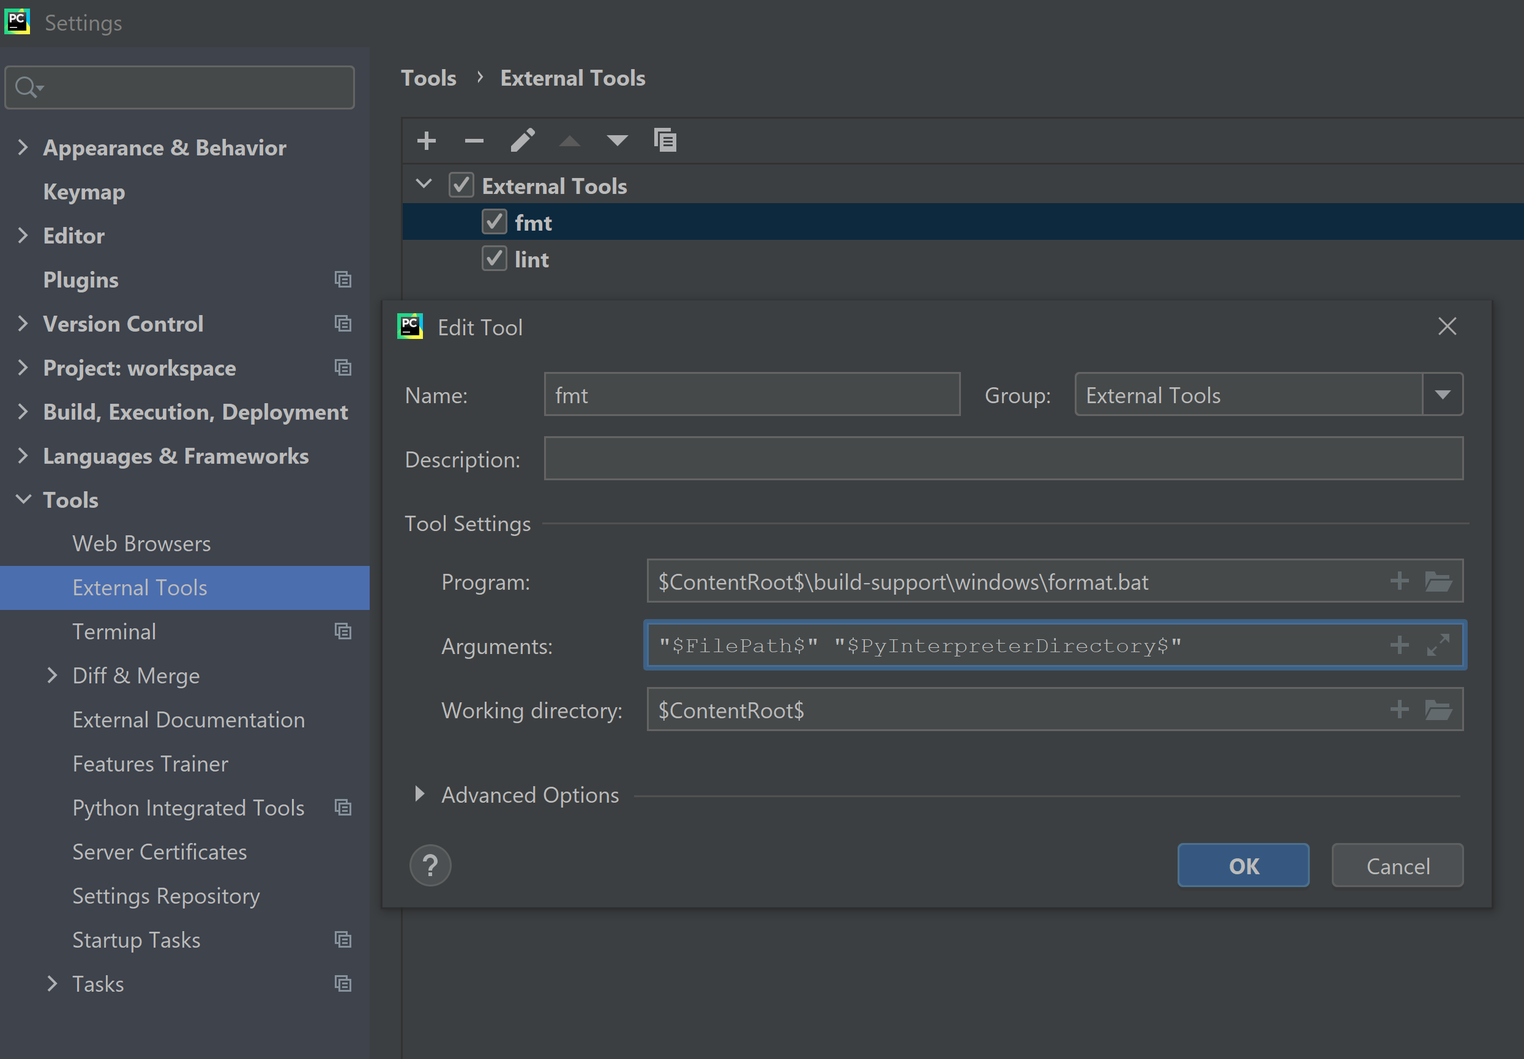
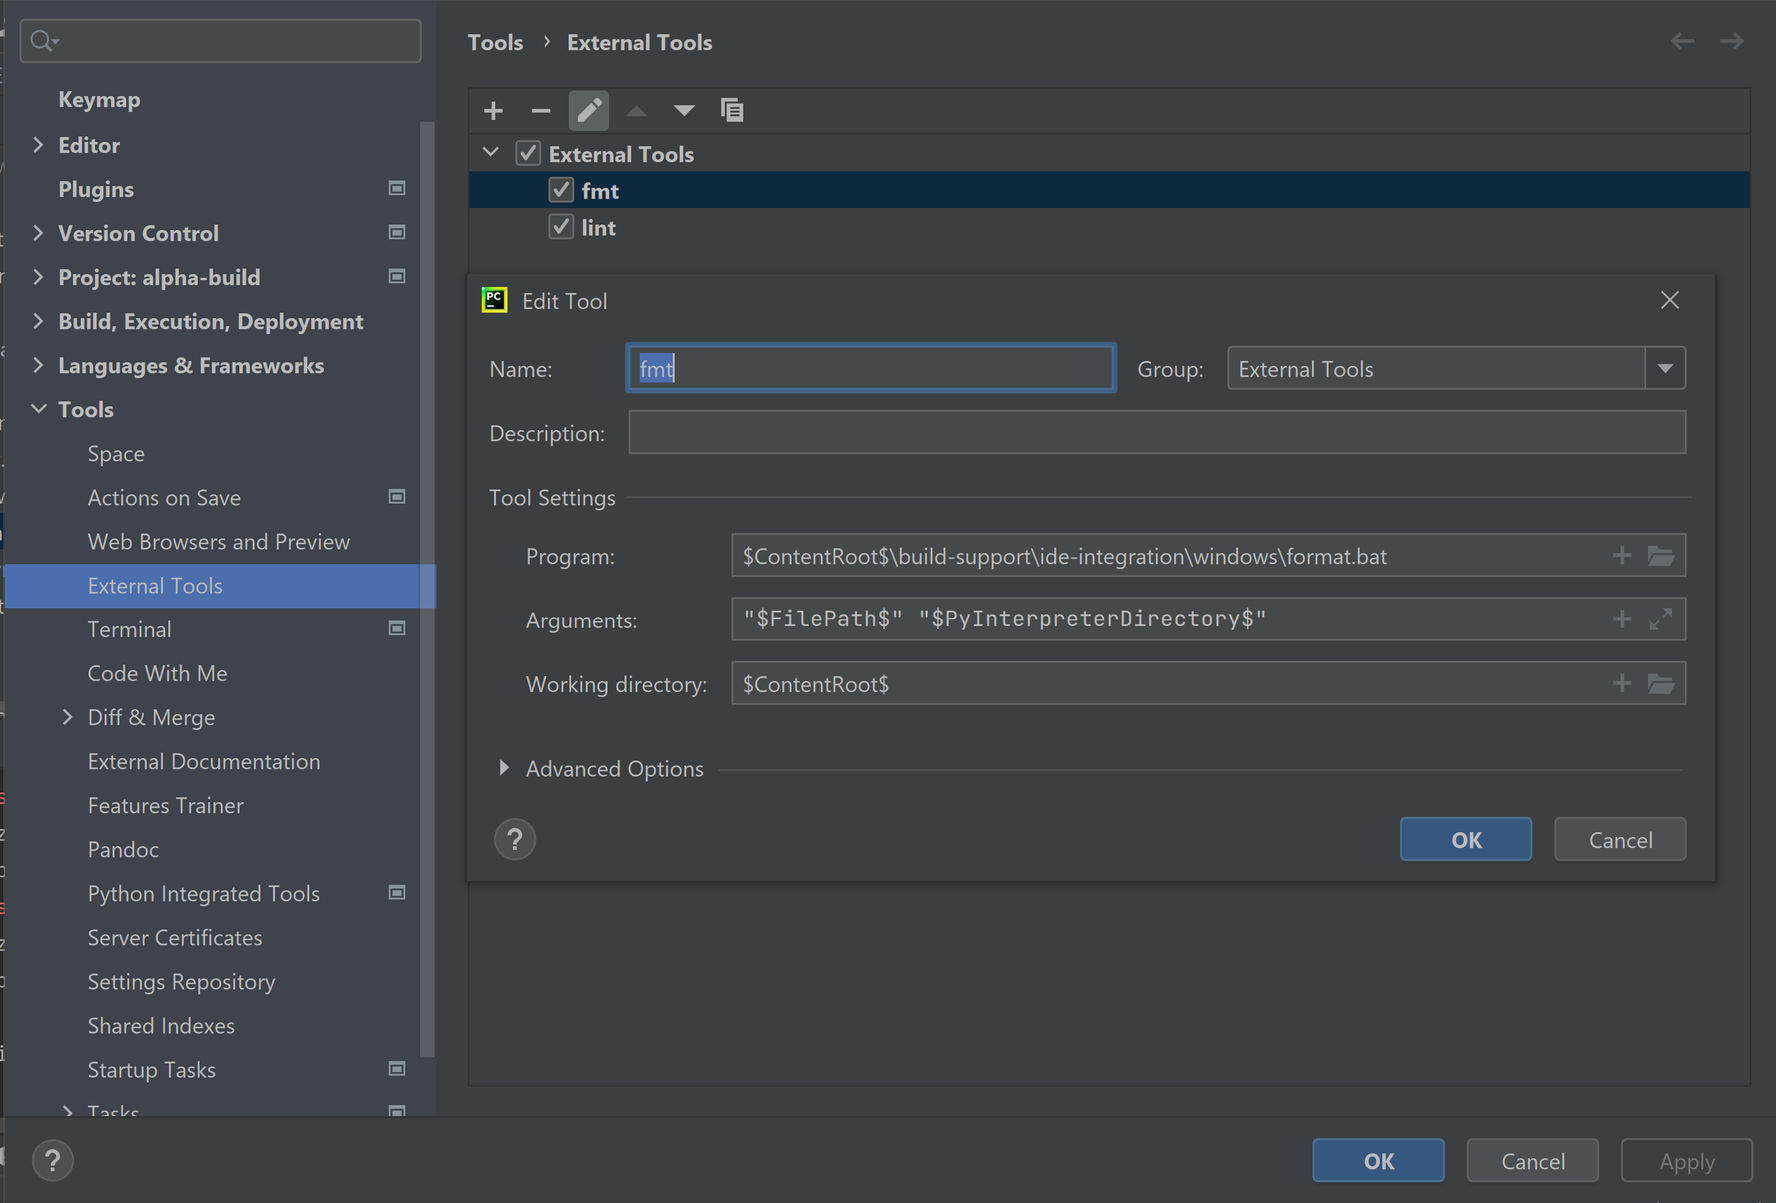
readme

diff --git a/README.md b/README.md
@@ -1,65 +1,76 @@
-# Workspace
+# AlphaBuild
 
-A monorepo containing some of my small projects powered by a scalable build system. See individual README.md files for
-more details.
+AlphaBuild is a simple monorepo build tool based on Make with out-of-the-box support for numerous tools in the
+Python, Bash, Jupyter Notebooks, Markdown, YAML ecosystems and with a strong focus on extensibility.
 
-[![Build Status](https://dev.azure.com/cristianmatache/workspace/_apis/build/status/cristianmatache.workspace?branchName=master)](https://dev.azure.com/cristianmatache/workspace/_build/latest?definitionId=1&branchName=master)
-[![Python 3.8+](https://img.shields.io/badge/python-3.7+-blue.svg)](https://www.python.org/downloads/)
-[![Checked with mypy](http://www.mypy-lang.org/static/mypy_badge.svg)](http://mypy-lang.org/)
-![pylint Score](https://mperlet.github.io/pybadge/badges/10.svg)
+The way AlphaBuild works draws inspiration heavily from monorepo build tools such as Pants, Bazel, Buck.
+It can run at once multiple linters, formatters, type checkers, hermetic packers, testing frameworks, virtual
+environment managers etc.
 
-## Contents
+1. [Platforms](#Platforms)
+2. [Usage](#Usage)
+   1. [Goals - what tools we run](#Goals-whattoolswerun)
+   2. [Targets - what files we run the tools on](#Targets-whatfileswerunthetoolson)
+3. [AlphaBuild structure](#AlphaBuildstructure)
+4. [IDE Integration](#IDEIntegration)
+5. [Example monorepo running AlphaBuild](#Examplemonorepo)
+6. [Common admin actions](#Commonadminactions)
+   1. [Installation](#Installation)
+   2. [Upgrade](#Upgrade)
+   3. [Change goal definitions](#Changegoaldefinitions)
+   4. [Add goals](#Addgoals)
+   5. [Update PYTHONPATH](#UpdatePYTHONPATH)
+   6. [See/Change tools config](#See/Changetoolsconfig)
+   7. [Third party environments](#Thirdpartyenvironments)
+   8. [Nested Makefiles](#NestedMakefiles)
+   9. [Generate requirements.txt for each sub-project](#Generaterequirements.txtforeachsub-project)
+   9. [Generate setup.py for each sub-project](#Generatesetup.pyforeachsub-project)
+7. [Out-of-the-box tools by language](#Out-of-the-boxtoolsbylanguage)
+8. [Comparison with Pants, Bazel, Pre-commit, Makefiles](#ComparisonwithPants,Bazel,Pre-commitandtraditionalMakefiles)
 
-- **build-support:** Makefile library inspired by Pants/Bazel to run linters, formatters, test frameworks, type
-  checkers, packers etc. on a variety of languages (Python, Jupyter Notebooks, Bash, Haskell, YAML, Markdown) → make
-- **app_iqor:** IQOR = I Quit Ordinary Renting (HackZurich 2019) → Q/KDB+Python
-- **app_paper_plane:** Paper Plane = find same flight but cheaper by changing country on Skyscanner (LauzHack 2018) →
-  Python
-- **dotfiles:** my take-everywhere rc-files
-- **lib_bzl_utils:** useful macros for Bazel → Starlark
-- **lib_py_utils:** a few interesting general purpose utility functions → Python
-- **tutorials_hs:**
-  - h99: see <https://wiki.haskell.org/H-99:_Ninety-Nine_Haskell_Problems> → Haskell
-  - scheme interpreter: see <https://en.wikibooks.org/wiki/Write_Yourself_a_Scheme_in_48_Hours> → Haskell
-- **tutorials_q:**
-  - weekly_q: see <https://dpkwhan.github.io/weeklyq/> → Q/KDB
+## Platforms
 
-## Hackathon projects
+AlphaBuild works on Linux distributions, MacOS, WSL and Windows with Git Bash.
+`Make` and `Bash` are AlphaBuild's only pre-requisites.
 
-For more hackathon projects see my devpost accounts:
+### Linux, MacOS, WSL
 
-- <https://devpost.com/crm15>
-- <https://devpost.com/cristianmatache>
+AlphaBuild may not work if you have ancient versions of `Make`/`Bash`, so try upgrading them if some commands don't seem
+to work.
 
-Some projects will be ported over here, some others are lost somewhere in space and time.
+### Windows
 
-## Makefile (mainly for scripting and config languages)
+On Windows, `Make` and `Bash` are not supported out-of-the-box, so it is recommended to use AlphaBuild on Windows within
+Git Bash. Note that Git Bash does not come with Make pre-installed. Once you downloaded and installed Git Bash
+run `build-support/git-bash-integration/install_make.sh` running Git Bash as administrator. Alternatively, you may get
+`Make` from `conda`
 
-The way the Makefile of this project works draws inspiration heavily from monorepo build tools such as Pants, Bazel,
-Buck. It runs multiple linters, formatters, type checkers, hermetic packers, testing frameworks, virtual environment
-managers etc. It works on Linux, WSL and Windows with Git Bash (for Windows please
-run  `build-support/git-bash-integration/install_make.sh` running Git Bash as administrator).
-
-### Usage
+## Usage
 
 Usually to format, lint, type-check, test, package, ... the code, one needs to run a bunch of commands in the terminal,
 setting the right flags and the right parameters. This Make-based build system helps with running these commands with
-a very simple interface: `make <goal> <optional-targets>` where **goal = what tools we run** and
-**targets = over which files we run these tools**.
+a very simple interface:
 
-#### Goals - what tools we run
+`make <goal> <optional-targets>`
+
+where
+
+- **goal = what tools we run**
+- **targets = over which files we run these tools**.
+
+### Goals - what tools we run
 
 Goals mean what command line tools to run. This build system can run one more tools at once as follows:
 
-- *Individual* tool
+- Single **individual** tool
   - e.g. `make mypy`, `make flake8`, `make isort`
-- Multiple tools for a *specific* language
-  - e.g. `make fmt-py` runs all Python formatters `isort`, `black`, `docformatter`, `flynt`, `autoflake`
-  - e.g. `make fmt-sh` runs shfmt
-  - e.g. `make lint-py` runs all Python linters and formatters in "verification" mode - `flake8` + `pylint` + check
-    whether the code is already formatted with `isort`, `black`, `docformatter`, `flynt`, `autoflake`
+- Multiple tools for a **specific language**
+  - e.g. `make fmt-py` runs all Python formatters e.g. `isort`, `black`, `docformatter`, `flynt`, `autoflake`
+  - e.g. `make fmt-sh` runs `shfmt`
+  - e.g. `make lint-py` runs Python all linters and all formatters in "verification" mode, that is `flake8` + `pylint` +
+  check whether the code is already formatted with `isort`, `black`, `docformatter`, `flynt`, `autoflake`
   - `make fmt-md`, `make lint-yml`, `test-sh`, `test-py` ... work similarly
-- Multiple tools for *multiple* languages
+- Multiple tools for **multiple languages**
   - e.g. `make fmt` runs all formatters for all supported languages (Python, Bash, Markdown, YAML, ...)
   - e.g. `make lint` runs all linters for all supported languages
   - e.g. `make test` runs all test suites for all supported languages
@@ -77,39 +88,57 @@ lint-sh: shellcheck
 
 Per-tool config files (e.g. `mypy.ini`, `pyproject.toml`) are found in `build-support/<language>/tools-config/`.
 
-##### Targets - what files we run the tools on
+### Targets - what files we run the tools on
 
 We have seen that Make gives us the power to run multiple terminal commands effortlessly. Using a Makefile like
 described above is standard practice in many projects, typically running the different tools over all their files.
 However, as projects grow, the need to run these tools at different granularities (e.g. in a specific directory,
 over a given file, on the diff between two branches, since we last committed etc). This is where targets come into play.
 
-- **without targets:**
-  - `make lint` runs:
-    - all Python linters on all directories (in the `$ONPY`) that contain Python/stub files.
-    - all notebook linters on all directories (in `$ONNB`) that contain .ipynb files.
-    - all Bash linters (shellcheck) on all directories (in `$ONSH`) that contain Bash files.
-    - a Haskell linter (hlint) on all directories (in `$ONHS`) that contain Haskell files.
-    - a YAML linter (yamllint) on all directories (in `$ONYML`) that contain YAML files.
-  - `make lint`, `make fmt -j1`, `make type-check` work similarly
-  - the `$(ONPY)`, `$(ONSH)`, ... variables are defined at the top of the Makefile and represent the default locations
-      where to search for files certain languages.
-- **with specific targets:**
-  - file: `make lint on=app_iqor/server.py` runs all Python linters on the file, same
-      as `make lint-py on=app_iqor/server.py`
-  - directory: `make lint on=lib_py_utils` runs a bunch of linters on the directory, in this case, same
-      as `make lint-py on=lib_py_utils/`.
-  - files/directories: `make lint on="lib_py_utils app_iqor/server.py"` runs a bunch of linters on both targets.
-  - globs: `make lint on=lib_*`
-  - aliases: `make fmt on=iqor` is the same as `make fmt on=app_iqor/` because `iqor` is an alias for `app_iqor/`. Even
-      though this example is simplistic, it is useful to alias combinations of multiple files/directories. It is
-      recommended to set aliases as constants in the Makefile even though environment variables would also work.
-  - same for `make fmt`, `make test`, `make type-check`.
-- **with git revision targets:**
-  - `make fmt -j1 since=master` runs all formatters on the diff between the current branch and master.
-  - `make fmt -j1 since=HEAD~1` runs all formatters on all files that changed since "2 commits ago".
-  - `make lint since=--cached` runs all linters on all files that are "git added".
-  - all goals that support the "on" syntax also support the "since" syntax
+#### With default targets
+
+The default targets per-language are defined at the top of the `Makefile` in language specific variables
+e.g. `ONPY=py-project1/ py-project2/ script.py` and `ONSH=scripts/`.
+
+- `make lint` runs:
+  - all Python linters on all directories (in the `$ONPY`) that contain Python/stub files.
+  - all notebook linters on all directories (in `$ONNB`) that contain `.ipynb` files.
+  - all Bash linters (shellcheck) on all directories (in `$ONSH`) that contain Bash files.
+  - a Haskell linter (hlint) on all directories (in `$ONHS`) that contain Haskell files.
+  - a YAML linter (yamllint) on all directories (in `$ONYML`) that contain YAML files.
+- `make lint`, `make fmt -j1`, `make type-check` work similarly
+- remember that the `$(ONPY)`, `$(ONSH)`, ... variables are defined at the top of the Makefile and represent the
+default locations where AlphaBuild searches for files certain languages.
+
+#### With specific targets
+
+To specify manually the files/directories you want to run your tools on, AlphaBuild leverages the "on" syntax:
+
+- **file:** `make lint on=app_iqor/server.py` runs all Python linters on the file, same
+    as `make lint-py on=app_iqor/server.py`
+- **directory:** `make lint on=lib_py_utils` runs a bunch of linters on the directory, in this case, same
+    as `make lint-py on=lib_py_utils/`.
+- **files/directories:** `make lint on="lib_py_utils app_iqor/server.py"` runs a bunch of linters on both targets.
+- **globs:** `make lint on=lib_*`
+- **aliases:** `make fmt on=iqor` where at the top of the Makefile `iqor=app_iqor/iqor app_iqor/test_iqor`, this is the
+same as `make fmt on=app_iqor/iqor app_iqor/test_iqor` because `iqor` is an alias for
+`app_iqor/iqor app_iqor/test_iqor`. Even though this example is simplistic, it is useful to alias combinations of
+multiple files/directories. It is recommended to set aliases as constants in the Makefile even though environment
+variables would also work.
+- same for `make fmt`, `make test`, `make type-check`.
+
+#### With git revision targets
+
+- `make fmt -j1 since=master` runs all formatters on the diff between the current branch and master.
+- `make fmt -j1 since=HEAD~1` runs all formatters on all files that changed since "2 commits ago".
+- `make lint since=--cached` runs all linters on all files that are "git added".
+- all goals that support the "on" syntax also support the "since" syntax
+
+#### Mixed "on" and "since"
+
+One can use the "on" and "since" syntaxes at the same time. For example:
+
+- `make lint on=my_dir/ since=HEAD~2` will run all linters on all files in `my_dir/` that changed since "3 commits ago".
 
 #### Constraints
 
@@ -126,55 +155,119 @@ for the language they target:
 
 If you want to learn more about the API of a specific goal, check the source code.
 
-#### Common admin actions
+## AlphaBuild structure
 
-- **Change what goal-lang does:** Let's say, for example, you don't want to run `pylint` as part of your python
-linting. You would simply go to the `Makefile` and change the definition of the `lint-py` goal to not include `pylint`.
-- **Adding goals:** The goals that are available out of the box are found in `build-support/make/core/<language>/`.
+- **Makefile:** AlphaBuild's entry point, this is where all components come together.
+- **3rdparty/:** Files required to build environments of 3rd party dependencies (e.g. requirements.txt files,
+package.json or lock files)
+- **build-support/:** Makefile library inspired by Pants/Bazel to run linters, formatters, test frameworks, type
+  checkers, packers etc. on a variety of languages (Python, Jupyter Notebooks, Bash, Haskell, YAML, Markdown)
+  - The flags used per-tool (e.g. setting the paths to config files) can be found in
+  `build-support/make/config/<lang>.mk`
+  - The core part of AlphaBuild lives in `build-support/make/core/`, this comprises the build-system backbone
+  `resolver.mk` and recipes to run lots of readily-available tools. This should be the same for all monorepos that
+  use AlphaBuild.
+  - By convention, repo-specific custom goals go in `build-support/make/extensions/` following the examples in `core`.
+  - `build-support/<other-programming-lang-than-make>/` contain things like config files for each tool and other files
+  required for your custom AlphaBuild goals.
+
+## IDE Integration
+
+- **PyCharm / IntelliJ**
+  - Windows: On Windows, it is advised to set Git Bash as the default "Terminal". In "settings" search for "terminal",
+  go to "Tools → Terminal" and set "Shell Path" to something like `C:\Program Files\Git\bin\bash.exe`.
+  - PYTHONPATH: If you are writing Python, please mark the directories for each project as "Sources Roots", such that
+  PyCharm discovers your imports.
+  - AlphaBuild hotkeys: It is easy to use AlphaBuild with hotkeys. For example, mapping `Alt+F` to
+  `make fmt -j1 on=<current-file>` and `Alt+L` to `make lint on=<current-file>`. To set this up, follow the example in
+  `build-support/ide-integration/windows/` to set up an external tool. Unix systems would be similar. Next, just map the
+  new external tools to your hotkeys.
+  ![external-tool](build-support/ide-integration/windows/example-setup-windows-pycharm.png)
+  ![external-tool-keymap](build-support/ide-integration/windows/example-setup-windows-pycharm-keymap.png)
+
+## Example monorepo running AlphaBuild
+
+To see AlphaBuild at work in a real-world example check <https://github.com/cristianmatache/workspace> out.
+Workspace extends AlphaBuild with support for Prometheus, Alertmanager and Grafana.
+
+## Common admin actions
+
+### Installation
+
+To add this build system to an existing repo, one needs to simply copy over `build-support/`, `3rdparty/`, `Makefile`.
+
+Create a conda environment, activate it and `make env-default-replicate`, as a one-off, to set up the python, markdown
+and bash environments (mostly pip/npm install-s).
+
+#### Upgrade
+
+To upgrade an existing installation if new tools are added or changes are made to the target resolution infrastructure,
+one would simply need to copy over `lib-support/make/core`.
+
+#### Change goal definitions
+
+Let's say, for example, you don't want to run `pylint` as part of your python linting. You would simply go to the
+`Makefile` and change the definition of the `lint-py` goal to not include `pylint`.
+
+#### Add goals
+
+The goals that are available out of the box are found in `build-support/make/core/<language>/`.
 You can extend/replace the core goals for new languages and/or tools by writing `.mk` code in
 `build-support/make/extensions/<language>/` following the examples in `build-support/make/core/`.
-- **Update the PYTHONPATH:** The PYTHONPATH is set at the top of the `Makefile`. For example, to add new directories to
+For example, <https://github.com/cristianmatache/workspace> extends AlphaBuild with Prometheus and Alertmanager goals.
+
+#### Update PYTHONPATH
+
+The PYTHONPATH is set at the top of the `Makefile`. For example, to add new directories to
 the PYTHONPATH (i.e. to mark them as sources roots) set `PY_SOURCES_ROOTS` at the top of the Makefile.
-- **See/Change tools config:** Let's say you want to change the way `mypy` is configured to exclude some directory from
-checking. Then head to `build-support/make/config/python.mk` check what is the path to the `mypy` config file, go there
-and update it. All other tools work similarly.
-- **Third party environments**
-  - **Exact reproduction of the default environment:** The recipes to fully replicate the default environment
-  (mostly using `pip`, `conda` and `npm`) are found in `build-support/make/core/<langugage>/setup.mk`, where they use
-  dependency files and lock files that can be found in `3rdparty/`. In practice, run `make env-default-replicate` inside
-  a conda environment. Also make sure you also have `npm` installed because `markdownlint` and `bats` bash testing
-  framework come from `npm` (if you don't need them no need to worry about `npm` just exclude the `markdown`
-  environment rule from the pre-requisites of `env-default-replicate`)
-  - **Create/Upgrade/Edit default environment:** If you want to edit the default environment, for example to add,
-  remove, constrain packages edit the `requirements.txt` not the `constraints.txt` file (in `3rdparty/`).
-  The `constraints.txt` is only used for reproducibility. If you just want to upgrade your third party dependencies
-  there is no need to temper with the `requirements.txt` files. Then run `make env-default-upgrade` and check the lock
-  files back into git.
-  - **Add a new environment:** To add a new environment, first add the dependency files (e.g. `requirements.txt`) in
-  `3rdparty/<new-env-name>`, add a new goal in `build-support/make/extensions`. For environment management over time, we
-  strongly encourage maintaining the approach split between creation/upgrade/edit and exact reproduction of
-  environments.
-- **Nested makefiles:** Supposing you want to have another `Makefile` for a specific project in the monorepo, just
+
+#### See/Change tools config
+
+Let's say you want to change the way `mypy` is configured to exclude some directory from checking. Then head to
+`build-support/make/config/python.mk` check what is the path to the `mypy` config file, go there and update it.
+All other tools work similarly.
+
+#### Third party environments
+
+- **Exact reproduction of the default environment:** The recipes to fully replicate the default environment
+(mostly using `pip`, `conda` and `npm`) are found in `build-support/make/core/<langugage>/setup.mk`, where they use
+dependency files and lock files that can be found in `3rdparty/`. In practice, run `make env-default-replicate` inside
+a conda environment. Also make sure you also have `npm` installed because `markdownlint` and `bats` bash testing
+framework come from `npm` (if you don't need them no need to worry about `npm` just exclude the `markdown`
+environment rule from the pre-requisites of `env-default-replicate`)
+- **Create/Upgrade/Edit default environment:** If you want to edit the default environment, for example to add,
+remove, constrain packages edit the `requirements.txt` not the `constraints.txt` file (in `3rdparty/`).
+The `constraints.txt` is only used for reproducibility. If you just want to upgrade your third party dependencies
+there is no need to temper with the `requirements.txt` files. Then run `make env-default-upgrade` and check the lock
+files back into git.
+- **Add a new environment:** To add a new environment, first add the dependency files (e.g. `requirements.txt`) in
+`3rdparty/<new-env-name>`, add a new goal in `build-support/make/extensions`. For environment management over time, we
+strongly encourage maintaining the approach split between creation/upgrade/edit and exact reproduction of
+environments.
+
+#### Nested Makefiles
+
+Supposing you want to have another `Makefile` for a specific project in the monorepo, just
 import everything that you need from `build-support/make/core/` and/or `build-support/make/extensions/`. To change the
 Now let's say you want to use a different config file for `mypy`. You would have 2 options, either change the path
 globally `build-support/make/config/python.mk` or, if you just want different settings for your little project use
 your inner `Makefile` to overwrite the value of the corresponding variable (that points to the config file) with the
 different path.
-- **Generate requirements.txt for each sub-project:** Run `make reqs-py`.
-- **Generate setup.py for each sub-project:** Run `build-support/python/packaging/generate_pip_install_files.py`
 
-### Installation
+#### Generate requirements.txt for each sub-project
 
-To add this build system to an existing repo, one needs to simply copy `build-support/` and `3rdparty/` over.
-Run `make env-default-replicate`, as a one-off, to set up the python, markdown and bash environments
-(mostly pip/npm install-s). It is recommended to copy over `lib_sh_utils/` and `deploy-support/` if you need support
-for Prometheus, Alertmanager or Grafana. In addition, if renaming directories in `3rdparty/` the correspondent paths in
-`build-support/make/config/<lang>.mk` should also be updated.
+Run `make reqs-py`.
 
-To upgrade an existing installation if new tools are added or changes are made to the target resolution infrastructure,
-one would simply need to copy over `lib-support/make/core`.
+#### Generate setup.py for each sub-project
 
-### Supported tools by language
+Run `build-support/python/packaging/generate_pip_install_files.py`
+
+## Out-of-the-box tools by language
+
+AlphaBuild has recipes to run the following tools. However, if you don't use some of them you don't need to have them
+installed in your enviornments. For example, let's say you don't use `bandit` then you don't need to have `bandit`
+installed in your environment provided that you are not using the `bandit` goal per-se or as part of a composite goal
+like `lint-py` or `lint`.
 
 - Python:
   - Setup: `pip` / `conda`
@@ -205,7 +298,7 @@ one would simply need to copy over `lib-support/make/core`.
 
 It is very easy to extend this list with another tool, just following the existing examples.
 
-### Comparison with Pants, Bazel, Pre-commit and traditional Makefiles
+## Comparison with Pants, Bazel, Pre-commit and traditional Makefiles
 
 Modern build tools like Pants or Bazel work similarly in terms of goals and targets, but they also add a caching layer
 on previous results of running the goals. While they come equipped with heavy machinery to support enormous scale
